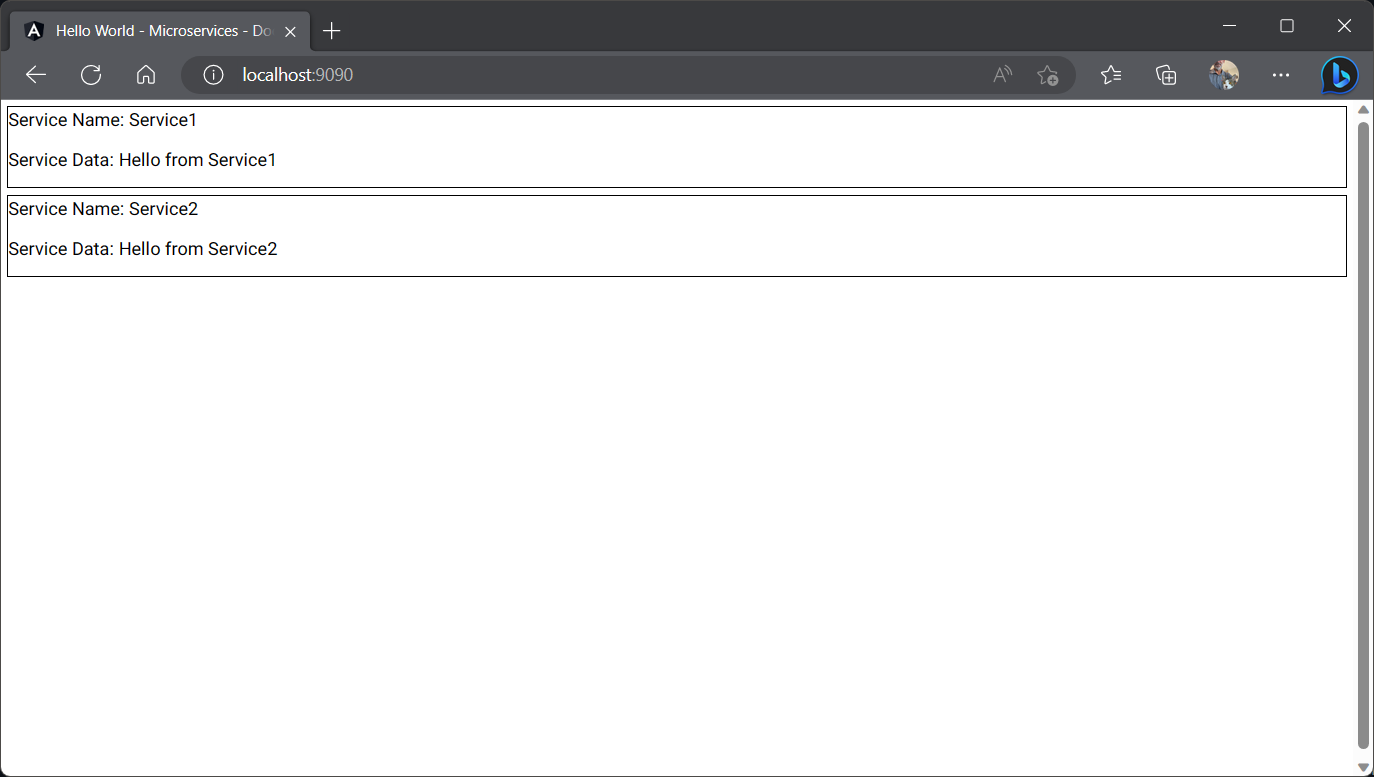
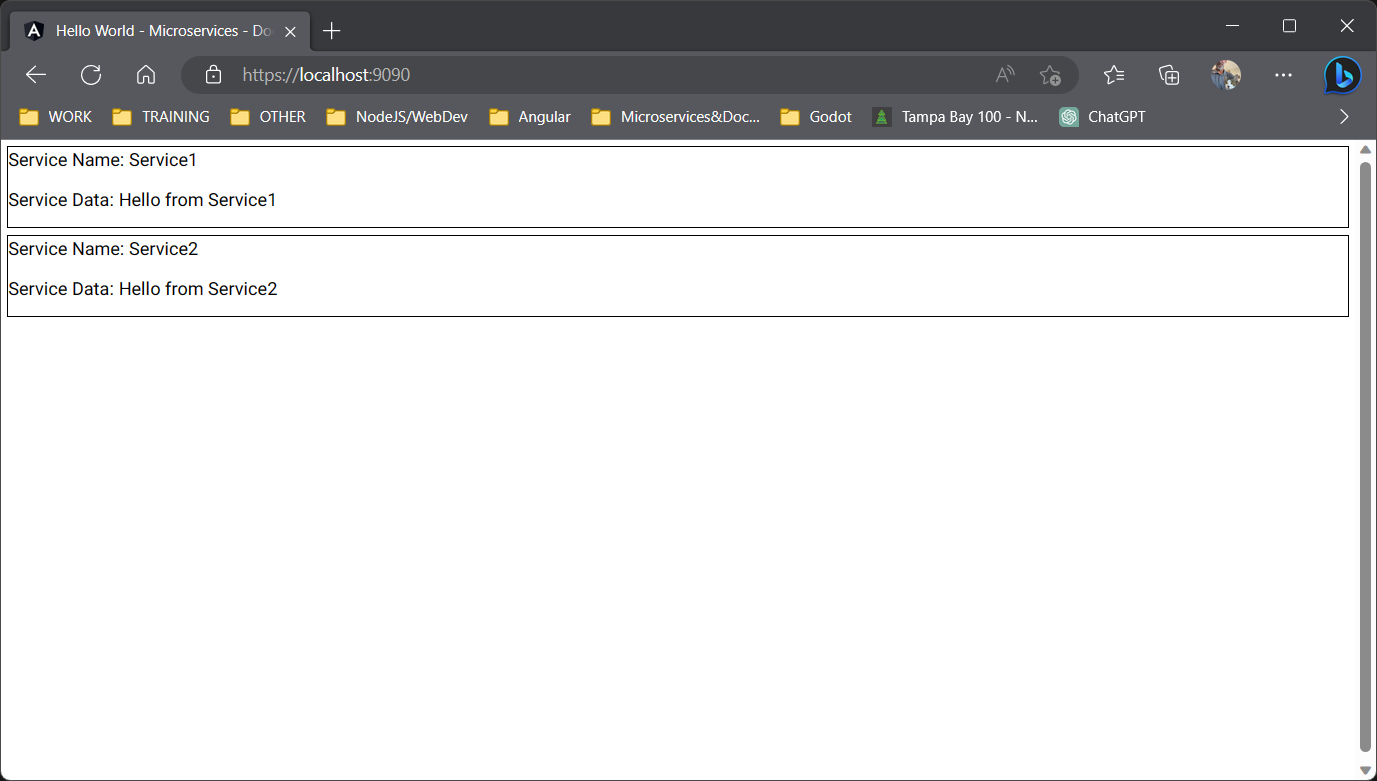
Update frontend to use HTTPS

Changed region(s): [[0.0, 0.0618, 1.0, 0.4015], [0.0611, 0.0309, 0.214, 0.0618]]

diff --git a/README.md b/README.md
@@ -28,6 +28,24 @@ The following assumptions are made:
 
 `dotnet user-secrets set "Kestrel:Certificates:Development:Password" "pa55w0rd!"`
 
+## Create the self signed certificate for the frontend located in the frontend folder
+
+`dotnet dev-certs https -ep frontend.pfx -p pa55w0rd!`
+
+`openssl pkcs12 -in ./frontend.pfx -clcerts -nokeys -out frontend.crt`
+
+`openssl pkcs12 -in ./frontend.pfx -nocerts -nodes -out frontend.key`
+
+
+Import frontend.pfx into your certificate store (Windows):
+
+- Double-click on the self-signed certificate file (with the .crt extension) to open the certificate details.
+- Click on the "Install Certificate" button.
+- Select "Local Machine" and click "Next."
+- Choose "Place all certificates in the following store" and click "Browse."
+- Select "Trusted Root Certification Authorities" and click "OK."
+- Click "Next" and then "Finish" to complete the installation.
+
 ## Build and run (do this in the frontend and backend folders)
 
 docker-compose up --build
